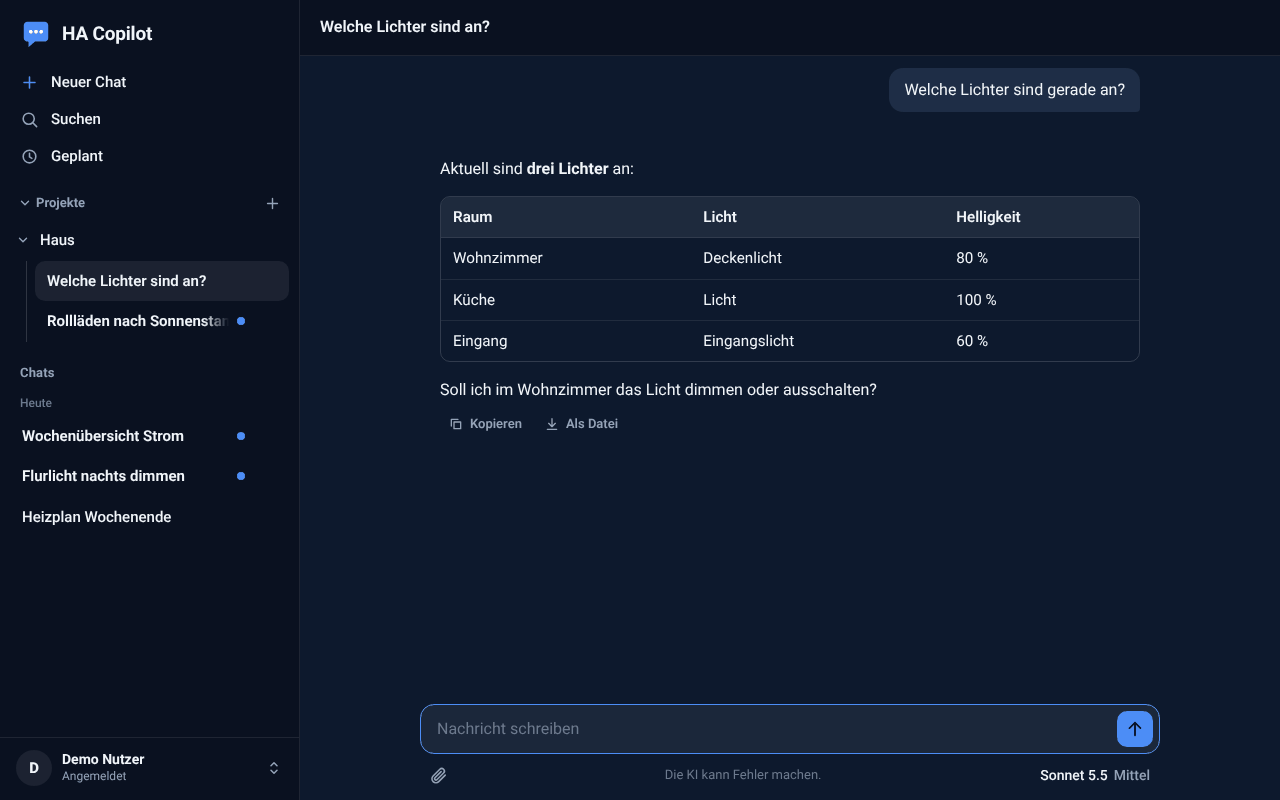
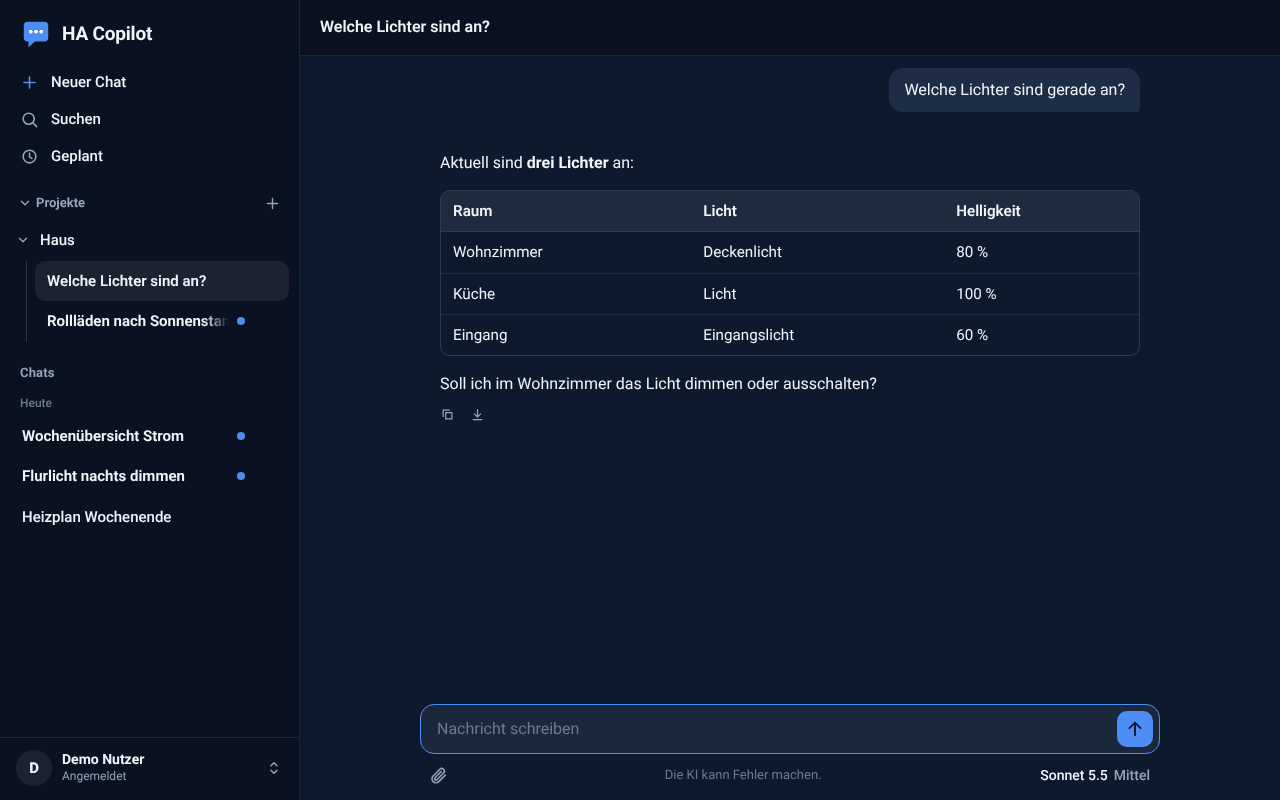
0.27.5: Antworten mit dezenten Symbolen (Kopieren, Als Datei), Zeitpunkt nur beim Darüberfahren
Claude-Session: https://claude.ai/code/session_012H4RFtPYg4WGjcVxpmDwqL

diff --git a/ki_chat/app/static/app.js b/ki_chat/app/static/app.js
@@ -1357,31 +1357,6 @@ async function togglePreview(pre, button, html) {
 
 window.kiFile = { save: saveFile, preview: togglePreview };
 
-function downloadButton(getText) {
-  const button = node("button", "tool-btn");
-  button.type = "button";
-  button.append(icon("download"), document.createTextNode(tr("Als Datei")));
-  button.addEventListener("click", () => { saveFile(tr("antwort.md"), getText(), "text/markdown").catch(() => toast(tr("Speichern hat nicht geklappt."))); });
-  return button;
-}
-
-function copyButton(getText) {
-  const button = node("button", "tool-btn");
-  button.type = "button";
-  const label = () => button.replaceChildren(icon("copy"), document.createTextNode(tr("Kopieren")));
-  label();
-  button.addEventListener("click", async () => {
-    try {
-      await navigator.clipboard.writeText(getText());
-      button.replaceChildren(icon("check"), document.createTextNode(tr("Kopiert")));
-    } catch {
-      button.replaceChildren(document.createTextNode(tr("Nicht möglich")));
-    }
-    setTimeout(label, 1600);
-  });
-  return button;
-}
-
 function fileChip(file, removable) {
   const chip = node("div", "file-chip");
   const thumb = node("span", "file-thumb");
@@ -1652,6 +1627,35 @@ async function stampMessages(chatId) {
   } catch { /* der Stift erscheint nach dem nächsten Laden */ }
 }
 
+// Unter einer Antwort: Kopieren und „Als Datei“ als dezente Symbole (nur bei der letzten Antwort dauerhaft, sonst beim
+// Darüberfahren) und, nur beim Darüberfahren, wann die Antwort fertig wurde.
+function answerMeta(text, el) {
+  const bar = node("div", "msg-meta answer-meta");
+  const copy = actionButton(tr("Antwort kopieren"), "copy", "msg-act", async () => {
+    try {
+      await navigator.clipboard.writeText(text);
+      copy.replaceChildren(icon("check"));
+      setTimeout(() => copy.replaceChildren(icon("copy")), 1600);
+    } catch { toast(tr("Kopieren nicht möglich.")); }
+  });
+  const save = actionButton(tr("Als Datei speichern"), "download", "msg-act", () => {
+    saveFile(tr("antwort.md"), text, "text/markdown").catch(() => toast(tr("Speichern hat nicht geklappt.")));
+  });
+  const time = node("span", "msg-time");
+  const refresh = () => { time.textContent = sentAgo(el.dataset.at); time.title = exactTime(el.dataset.at); };
+  refresh();
+  el.addEventListener("pointerenter", refresh);
+  el.addEventListener("focusin", refresh);
+  bar.append(copy, save, time);
+  return bar;
+}
+
+// Nur die letzte Antwort zeigt ihre Symbole dauerhaft.
+function markLastAnswer() {
+  const all = $("thread").querySelectorAll(".msg.assistant:not(.pending)");
+  all.forEach((el, i) => el.classList.toggle("last-answer", i === all.length - 1));
+}
+
 function messageEl(role, text, files = [], actions = [], meta = {}) {
   if (role === "user") return userMessage(text, files, meta);
   const el = node("div", `msg ${role}`);
@@ -1659,9 +1663,14 @@ function messageEl(role, text, files = [], actions = [], meta = {}) {
     if (actions.length) el.append(actionsEl(actions));
     el.append(window.renderMarkdown(text));
     if (actions.some((a) => a.file)) el.append(fileCardsEl(actions));
-    const tools = node("div", "msg-tools");
-    tools.append(copyButton(() => text), downloadButton(() => text));
-    el.append(tools);
+    const at = meta.at || new Date().toISOString();
+    el.dataset.at = at;
+    el.append(answerMeta(text, el));
+    // Touchscreen: Antippen der Antwort blendet die Leiste mit dem Zeitpunkt ein oder aus.
+    el.addEventListener("click", (event) => {
+      if (!window.matchMedia("(hover: none)").matches || window.getSelection()?.toString() || event.target.closest("a, button, pre, table, summary")) return;
+      el.classList.toggle("show-meta");
+    });
   } else {
     el.textContent = text;
   }
@@ -1693,6 +1702,7 @@ function renderMessages(messages) {
     if (!m.summarized) seenLive = true;
     thread.append(messageEl(m.role, m.content, m.attachments || [], m.tools || [], { id: m.id, at: m.created_at }));
   }
+  markLastAnswer();
 }
 
 async function selectChat(id) {
@@ -2264,6 +2274,7 @@ async function settleRun(run, bubble, out, view = {}) {
   }
   if (out.answer) bubble.replaceWith(messageEl("assistant", out.answer, [], out.actions));
   else bubble.remove();
+  markLastAnswer();
   if (out.failure) {
     if (!out.answer) {
       // Nichts gespeichert: Frage samt Dateien zurück ins Eingabefeld.

diff --git a/ki_chat/app/static/style.css b/ki_chat/app/static/style.css
@@ -169,7 +169,7 @@
   color: var(--bubble-ink);
   white-space: pre-wrap;
 }
-.msg.assistant { margin: 0 0 26px; line-height: 1.6; }
+.msg.assistant { margin: 0 0 14px; line-height: 1.6; }
 /* Warteanzeige: kleines Zeichen mit Bewegung, dazu ein Wort oder die laufende Aktion; beim Schreiben bleibt nur das Zeichen */
 .busy { display: flex; align-items: center; flex-wrap: wrap; gap: 4px 10px; min-height: 26px; color: var(--text-2); font-size: 14.5px; }
 .spark { position: relative; flex: none; width: 18px; height: 18px; }
@@ -216,10 +216,11 @@
 .out-get { flex: none; color: var(--text-2); display: grid; place-items: center; }
 .out-get .icon { width: 20px; height: 20px; }
 .out-card:hover:not(:disabled) .out-get { color: var(--accent); }
-.msg-tools { margin-top: 6px; display: flex; gap: 4px; }
-.tool-btn { height: 32px; padding: 0 10px 0 8px; border-radius: var(--r-1); display: inline-flex; align-items: center; gap: 6px; font-size: 13px; font-weight: 600; color: var(--text-2); }
-.tool-btn .icon { width: 16px; height: 16px; }
-.tool-btn:hover { background: var(--chip); color: var(--text); }
+/* Unter einer Antwort: Symbole nur bei der letzten Antwort dauerhaft, sonst beim Darüberfahren; der Zeitpunkt nur beim Darüberfahren */
+.msg-meta.answer-meta { justify-content: flex-start; margin: 4px 0 0 -7px; }
+.msg.assistant:hover .answer-meta, .msg.assistant:focus-within .answer-meta, .msg.assistant.show-meta .answer-meta, .msg.assistant.last-answer .answer-meta { opacity: 1; }
+.answer-meta .msg-time { margin: 0 0 0 6px; opacity: 0; transition: opacity .12s; }
+.msg.assistant:hover .answer-meta .msg-time, .msg.assistant:focus-within .answer-meta .msg-time, .msg.assistant.show-meta .answer-meta .msg-time { opacity: 1; }
 
 /* Markdown in Antworten */
 .md > :first-child { margin-top: 0; }
@@ -324,10 +325,10 @@
 .msg-group { display: flex; flex-direction: column; align-items: flex-end; margin: 0 0 6px; }
 .msg-group .msg.user { margin: 0; }
 /* Zeitpunkt, Bearbeiten und Kopieren unter der eigenen Nachricht: nur beim Darüberfahren (Touchscreen: Antippen) */
-.msg-meta { display: flex; align-items: center; gap: 2px; height: 28px; margin: 2px 0 8px; opacity: 0; transition: opacity .12s; }
+.msg-meta { display: flex; align-items: center; gap: 2px; height: 28px; margin: 2px 0 2px; opacity: 0; transition: opacity .12s; }
 .msg-group:hover .msg-meta, .msg-group:focus-within .msg-meta, .msg-group.show-meta .msg-meta { opacity: 1; }
 /* Touchscreen: Leiste braucht keinen reservierten Platz, sie klappt beim Antippen auf */
-@media (hover: none) { .msg-meta { height: 0; margin: 0; overflow: hidden; } .msg-group.show-meta .msg-meta { height: 28px; margin: 2px 0 8px; overflow: visible; } .msg-group { margin-bottom: 22px; } }
+@media (hover: none) { .msg-group .msg-meta { height: 0; margin: 0; overflow: hidden; } .msg-group.show-meta .msg-meta { height: 28px; margin: 2px 0 2px; overflow: visible; } .msg-group { margin-bottom: 22px; } }
 .msg-time { margin-right: 4px; font-size: 12.5px; color: var(--text-2); white-space: nowrap; cursor: default; }
 .msg-act { width: 28px; height: 28px; border-radius: var(--r-1); display: grid; place-items: center; color: var(--text-2); }
 .msg-act .icon { width: 15px; height: 15px; }

diff --git a/tools/screenshots/capture_app.py b/tools/screenshots/capture_app.py
@@ -4,7 +4,7 @@ OUT = sys.argv[1]
 DEMO_ID = "0123456789abcdef0123456789abcdef"; H = {"X-Remote-User-Id": DEMO_ID}
 def open_chat(pg, project, chat):
     pg.locator(".project-row", has_text=project).first.click(); pg.wait_for_timeout(300)
-    pg.locator(".row.chat-item", has_text=chat).first.click(); pg.mouse.move(900, 400); pg.wait_for_timeout(1200)
+    pg.locator(".row.chat-item", has_text=chat).first.click(); pg.mouse.move(900, 620); pg.wait_for_timeout(1200)
 with sync_playwright() as p:
     b = p.chromium.launch()
     for scheme, name in (("light", "chat-hell"), ("dark", "chat-dunkel")):
@@ -20,6 +20,14 @@ with sync_playwright() as p:
             pg.screenshot(path=f"{OUT}/nachricht-zeit.png", clip=clip)
             pg.locator(".msg-edit-btn").first.click(); pg.wait_for_timeout(400)
             pg.screenshot(path=f"{OUT}/nachricht-bearbeiten.png", clip=clip)
+            pg.locator(".msg-edit .pill.ghost").click(); pg.wait_for_timeout(300)
+            # Antwort: Kopieren und „Als Datei“ (bei der letzten Antwort dauerhaft), der Zeitpunkt nur beim Darüberfahren
+            pg.mouse.move(5, 5); pg.wait_for_timeout(200)
+            pg.evaluate("document.querySelector('.msg.assistant').dataset.at = new Date(Date.now() - 31 * 60000).toISOString()")
+            answer = pg.locator(".msg.assistant").first
+            answer.hover(); pg.wait_for_timeout(500)
+            box = answer.bounding_box()
+            pg.screenshot(path=f"{OUT}/antwort-zeit.png", clip={"x": box["x"] - 20, "y": box["y"] + box["height"] - 120, "width": 700, "height": 150})
         c.close()
     c = b.new_context(viewport={"width": 390, "height": 800}, device_scale_factor=2, is_mobile=True, has_touch=True, locale="de-DE", extra_http_headers=H)
     pg = c.new_page(); pg.goto("http://127.0.0.1:8099/"); pg.wait_for_timeout(900)

diff --git a/tools/screenshots/capture_theme.py b/tools/screenshots/capture_theme.py
@@ -5,10 +5,15 @@ Setzt das Theme über den Dienst frontend.set_theme für die Dauer der Aufnahme 
 import json, os, sys, urllib.request
 exec(open(os.path.join(os.path.dirname(__file__), "capture_ha.py")).read().split("with sync_playwright() as p:")[0])
 
+def access_token():
+    """Der gespeicherte Zugriffstoken läuft nach 30 Minuten ab: mit dem Aktualisierungstoken einen frischen holen."""
+    data = urllib.parse.urlencode({"grant_type": "refresh_token", "refresh_token": tok["refresh_token"], "client_id": HA + "/"}).encode()
+    return json.load(urllib.request.urlopen(urllib.request.Request(HA + "/auth/token", data=data)))["access_token"]
+
 def theme(name):
     body = {"name": name} if name else {"name": "default"}
     r = urllib.request.Request(HA + "/api/services/frontend/set_theme", method="POST", data=json.dumps(body).encode(),
-                               headers={"Authorization": "Bearer " + tok["access_token"], "Content-Type": "application/json"})
+                               headers={"Authorization": "Bearer " + access_token(), "Content-Type": "application/json"})
     urllib.request.urlopen(r).read()
 
 theme("DORALAB")
@@ -21,7 +26,7 @@ try:
             pg.goto(HA + "/ha-copilot-panel"); pg.wait_for_timeout(5000)
             fr = pg.frame_locator("iframe")
             fr.locator(".project-row", has_text="Haus").first.click(); pg.wait_for_timeout(400)
-            fr.locator(".row.chat-item", has_text="Lichter").first.click(); pg.mouse.move(1000, 400); pg.wait_for_timeout(1500)
+            fr.locator(".row.chat-item", has_text="Lichter").first.click(); pg.mouse.move(1000, 600); pg.wait_for_timeout(1500)
             pg.screenshot(path=f"{OUT}/ha-copilot-doralab{suffix}.png")
             c.close()
         b.close()

diff --git a/tools/screenshots/capture_ha.py b/tools/screenshots/capture_ha.py
@@ -40,7 +40,7 @@ with sync_playwright() as p:
         pg.goto(HA + "/ha-copilot-panel"); pg.wait_for_timeout(5000)
         fr = pg.frame_locator("iframe")
         try:
-            fr.locator(".project-row", has_text="Haus").first.click(); pg.wait_for_timeout(400); fr.locator(".row.chat-item", has_text="Lichter").first.click(); pg.mouse.move(1000, 400); pg.wait_for_timeout(1500)
+            fr.locator(".project-row", has_text="Haus").first.click(); pg.wait_for_timeout(400); fr.locator(".row.chat-item", has_text="Lichter").first.click(); pg.mouse.move(1000, 600); pg.wait_for_timeout(1500)
         except Exception as e:
             print("click chat failed", e)
         pg.screenshot(path=f"{OUT}/ha-copilot-im-panel{suffix}.png")

diff --git a/ki_chat/DOCS.md b/ki_chat/DOCS.md
@@ -167,7 +167,7 @@ Verfügbare Variablen: `--bg`, `--panel`, `--sidebar`, `--sheet`, `--text`, `--t
 
 - **Darstellung:** Hell, Dunkel oder Auto (folgt dem Gerät). Die Auswahl steht unten in der Seitenleiste und wird pro Browser gemerkt; in Home Assistant eingebettet gibt HA Hell/Dunkel vor und der Schalter entfällt. Die Farben kommen aus dem Theme von Home Assistant, siehe „Personalisierung“.
 - **Seitenleiste:** Von oben nach unten: „Neuer Chat“, **Suchen** (ab 0.22.0, siehe „Suche, Export und eigene Daten“), **Geplant** (ab 0.21.0, siehe „Geplante Aufgaben“), **Angepinnt** (angepinnte Chats), **Projekte** (auf- und zuklappbar, Plus-Symbol legt ein Projekt an; das Plus in der Projektzeile startet einen neuen Chat darin) und **Chats**. Bei den Chats stehen nur die der letzten zwei Tage (Heute, Gestern); „Alle anzeigen“ blendet die älteren ein. Über das Symbol mit den drei Punkten bei jeder Zeile (am Computer beim Darüberfahren) öffnet sich das Aktionsfenster: anpinnen, umbenennen, in ein Projekt verschieben, als Markdown exportieren, löschen. Am Laptop und Tablet öffnet das ein kleines Menü direkt am Symbol (mit Trennlinien und Tastenkürzeln: U, P, R, D; „Projekt wechseln“ klappt ein Untermenü mit Suche auf; Pfeiltasten und Esc funktionieren). Abfragen wie Projekt anlegen, Umbenennen oder Löschen bestätigen erscheinen dort als Dialog in der Bildschirmmitte mit Schließen-Kreuz; auf dem Handy hochkant bleibt alles ein Fenster von unten.
-- **Eigene Nachrichten (ab 0.27.5):** Unter jeder eigenen Nachricht steht beim Darüberfahren (am Touchscreen nach dem Antippen) dezent, wann sie gesendet wurde: bis zu einer Stunde „vor 33 Minuten“, danach auf Stunden gerundet („vor 1 Stunde“, „vor 2 Stunden“, bis sechs Stunden), dann „Heute Nacht/Morgen/Mittag/Nachmittag/Abend“, „Gestern“, „Vorgestern“, „vor 3 Tagen“ (bis sechs Tage) und ab einer Woche das Datum. Der genaue Zeitpunkt steht im Hinweis des Zeitstempels. Daneben ein Stift (**Bearbeiten**) und ein Symbol zum **Kopieren** des Textes. Zum Bearbeiten siehe „So arbeitet die KI“.
+- **Eigene Nachrichten (ab 0.27.5):** Unter jeder eigenen Nachricht steht beim Darüberfahren (am Touchscreen nach dem Antippen) dezent, wann sie gesendet wurde: bis zu einer Stunde „vor 33 Minuten“, danach auf Stunden gerundet („vor 1 Stunde“, „vor 2 Stunden“, bis sechs Stunden), dann „Heute Nacht/Morgen/Mittag/Nachmittag/Abend“, „Gestern“, „Vorgestern“, „vor 3 Tagen“ (bis sechs Tage) und ab einer Woche das Datum. Der genaue Zeitpunkt steht im Hinweis des Zeitstempels. Daneben ein Stift (**Bearbeiten**) und ein Symbol zum **Kopieren** des Textes. Zum Bearbeiten siehe „So arbeitet die KI“. **Unter den Antworten der KI** stehen „Kopieren“ und „Als Datei“ (speichert den ganzen Text als `antwort.md`) als dezente Symbole: bei der letzten Antwort dauerhaft, bei älteren erst beim Darüberfahren; ebenfalls nur dann steht dort, wann die Antwort fertig wurde (gleiche Zeitangabe wie oben).
 - **Warteanzeige (ab 0.17.0):** Solange die KI arbeitet, steht unter der Frage ein kleines bewegtes Zeichen mit einem Hinweis („Denkt nach“, „Tüftelt“, „Wägt ab“ …) oder der gerade laufenden Aktion („Entitäten suchen: Licht“); wartet sie auf deine Freigabe, steht das dort. Nach 20 Sekunden erscheint die Wartezeit, nach einer Minute ein Hinweis, dass die Antwort auch bei verlassenem Chat fertig wird. Sobald Text ankommt, bleibt nur das kleine Zeichen unter dem Text. Mit „Bewegung reduzieren“ im Betriebssystem steht es still.
 - **Lesestatus:** Eine neue Antwort macht den Chat ungelesen: Der Name steht fett mit einem Punkt in der Akzentfarbe, ein eingeklapptes Projekt zeigt den Punkt ebenfalls, und der Tab-Titel beginnt mit „●“. Sobald der Chat angezeigt wird, gilt er als gelesen. Das passiert auch, wenn du die Antwort bei geöffnetem Fenster abwartest. Kommt die Antwort, während das Fenster im Hintergrund liegt oder du auf einem anderen Gerät bist, bleibt der Punkt, bis du den Chat öffnest. Im Menü kannst du Chats von Hand als ungelesen oder gelesen markieren (der gerade offene Chat bleibt dann ungelesen, bis du ihn erneut öffnest). Der Status gehört zum Benutzer und gilt auf allen Geräten; die Liste aktualisiert sich beim Zurückkehren ins Fenster, alle 45 Sekunden und alle 3 Sekunden, solange irgendwo eine Antwort entsteht. Projekte lassen sich ebenfalls anpinnen (stehen dann oben) und umbenennen. Wird ein Projekt gelöscht, bleiben seine Chats erhalten und stehen danach wieder bei den Chats. Weitere Einträge wie Artefakte kommen als zusätzliche `nav-item`-Zeilen in `index.html` dazu.
 - **Einklappen und Handy:** Im Web am Computer lässt sich die Seitenleiste über das Symbol oben links ein- und ausblenden (wird pro Browser gemerkt). In Home Assistant gibt es das nicht, dort wäre es eine zweite Seitenleiste neben der von HA. Auf dem Handy öffnet sich die Seitenleiste im Web wie gewohnt von links (Menüsymbol), in Home Assistant als Fenster von unten (Sprechblasen-Symbol).
@@ -177,7 +177,7 @@ Verfügbare Variablen: `--bg`, `--panel`, `--sidebar`, `--sheet`, `--text`, `--t
 - **Startseite:** Ein neuer Chat zeigt die Begrüßung und vier Startkarten. Ein Tipp darauf füllt die Eingabe mit dem Anfang einer Frage, die du fertig schreibst. Die Karten stehen als `STARTERS` in `app.js`.
 - **Anhänge:** Über die Büroklammer, per Einfügen (Strg/Cmd+V, z. B. ein Screenshot) oder per Ziehen auf die Seite lassen sich bis zu 5 Dateien pro Nachricht anhängen: Bilder (PNG, JPEG, GIF, WebP; Fotos werden im Browser auf höchstens 2000 Pixel verkleinert), PDF und Textdateien (Code, Logs, CSV, JSON, YAML, Markdown …). Zum Senden brauchst du eine Frage zu den Dateien. Word (.docx), Excel (.xlsx) und PowerPoint (.pptx) werden im Add-on in Text umgewandelt (Überschriften, Listen, Tabellen; bei Excel alle sichtbaren Blätter mit Zellwerten und Datumsangaben, Formeln als zuletzt berechneter Wert; bei PowerPoint Folientexte und Notizen). Alte Formate (.doc, .xls, .ppt), passwortgeschützte Dateien und ZIP-Archive werden mit einer Meldung abgelehnt. Was mit den Dateien passiert, steht unter „Anhänge und Speicherplatz“.
 - **Projektanweisungen:** Im Menü eines Projekts (⋯) unter „Anweisungen festlegen“ lässt sich ein Text (bis 4000 Zeichen) hinterlegen, der in jedem Chat des Projekts als Anweisung an Claude mitgeht, zum Beispiel Rolle, Stil oder feste Hintergründe. Ein Punkt hinter dem Projektnamen zeigt, dass Anweisungen aktiv sind; auf der Startseite eines neuen Chats im Projekt steht ein Hinweis. Die Anweisungen liegen als Text in der Datenbank (Chats ohne Projekt bekommen keine).
-- **Dateien und Vorschau aus Antworten:** Claude liefert Text. Jeder Codeblock hat „Herunterladen“ und „Kopieren“; mit `datei=name.ext` in der Eröffnungszeile (z. B. ```` ```yaml datei=automations.yaml ````) bekommt die Datei ihren Namen, sonst `datei.<Endung>` nach der Sprache. Unter jeder Antwort speichert „Als Datei“ den ganzen Text als `antwort.md`. Auf dem Handy öffnet sich dafür das Teilen-Fenster („In Dateien sichern“), am Computer der normale Download. Vollständige HTML-Seiten (Codeblock `html`) bekommen eine Schaltfläche „Vorschau“: Die Seite läuft abgeschottet unter dem Codeblock (Vollbild möglich). Siehe „Vorschau-Sicherheit“.
+- **Dateien und Vorschau aus Antworten:** Claude liefert Text. Jeder Codeblock hat „Herunterladen“ und „Kopieren“; mit `datei=name.ext` in der Eröffnungszeile (z. B. ```` ```yaml datei=automations.yaml ````) bekommt die Datei ihren Namen, sonst `datei.<Endung>` nach der Sprache. Unter jeder Antwort speichert das Symbol „Als Datei speichern“ den ganzen Text als `antwort.md`. Auf dem Handy öffnet sich dafür das Teilen-Fenster („In Dateien sichern“), am Computer der normale Download. Vollständige HTML-Seiten (Codeblock `html`) bekommen eine Schaltfläche „Vorschau“: Die Seite läuft abgeschottet unter dem Codeblock (Vollbild möglich). Siehe „Vorschau-Sicherheit“.
 - **Logo:** Das Logo steht auf der Anmeldeseite (auf einem dunklen „Türschild“), als Zeichen in der Seitenleiste (auch in Home Assistant auf Laptop und Tablet; auf dem Handy in Home Assistant im Chats-Fenster und auf der Startseite) und als Symbol für Browser-Tab und Startbildschirm. Mitgeliefert ist ein neutrales Zeichen; eigene Dateien siehe „Logo und Dateien“.
 - **Schrift:** Roboto (variable Schrift, Lizenz OFL, liegt im Add-on unter `app/static/fonts/`). Es werden keine Schriften von fremden Servern geladen.
 - **Handy:** Die Chats öffnen als Fenster von unten (Knopf „Chats“ in der Leiste), nicht als zweites Seitenmenü neben dem von Home Assistant. In HA eingebettet fehlen Marke und Anmeldename, weil HA sie selbst zeigt.

diff --git a/ki_chat/CHANGELOG.md b/ki_chat/CHANGELOG.md
@@ -6,6 +6,7 @@
 - **Handy im Web: Kopfzeile ohne Balken.** Nur noch runde Knöpfe für die Chat-Liste (links, Symbol wie in Claude) und „Neuer Chat“ (rechts). In der Home-Assistant-App bleibt das Chats-Symbol in der Eingabe.
 - **Chatliste:** Ein kleiner Kreisel hinter dem Namen zeigt, dass in diesem Chat gerade geantwortet wird (am Computer und am Handy; ein Punkt für „Wartet auf Bestätigung“ bzw. „Ungelesen“ wie bisher). Die drei Punkte erscheinen am Computer nur noch beim Darüberfahren, am Touchscreen bleiben sie sichtbar. Lange Namen enden nicht mehr mit „…“, sondern blenden in der Schriftfarbe aus. Bleibt die Maus etwa eine Sekunde auf einem Chat, zeigt ein Hinweis den vollen Namen und die letzte Aktivität.
 - **Nachrichten bearbeiten.** Fährst du mit der Maus über eine eigene Nachricht, erscheint darunter dezent, **wann sie gesendet wurde** („vor 33 Minuten“, „vor 2 Stunden“, danach „Heute Morgen“, „Gestern“, „Vorgestern“, „vor 3 Tagen“, ab einer Woche das Datum; der genaue Zeitpunkt steht im Hinweis beim Darüberfahren), dazu ein Stift zum **Bearbeiten** und ein Symbol zum **Kopieren**. Am Touchscreen blendet Antippen der Nachricht die Leiste ein. „Bearbeiten“ macht die Nachricht zum Eingabefeld; mit „Senden“ wird diese Frage samt allem Späteren in diesem Chat durch die neue Frage und eine neue Antwort ersetzt. Angehängte Dateien der alten Frage werden nicht übernommen (neu anhängen). Scheitert die neue Antwort ganz, kommt der alte Verlauf unverändert zurück. Eine Zusammenfassung des älteren Verlaufs, die in den ersetzten Teil reicht, wird verworfen und bei Bedarf neu erstellt.
+- **Antworten der KI:** „Kopieren“ und „Als Datei“ stehen jetzt als dezente Symbole unter der Antwort, wie bei den eigenen Nachrichten. Bei der **letzten** Antwort bleiben sie dauerhaft sichtbar, bei älteren erscheinen sie erst beim Darüberfahren. Dort steht dann auch, **wann die Antwort fertig wurde** (derselbe Zeitstempel wie bei eigenen Nachrichten, immer nur beim Darüberfahren). Am Touchscreen blendet Antippen der Antwort die Leiste ein.
 - Keine neuen Optionen, keine Änderung an bestehender Konfiguration. Die Datenbank bleibt unverändert (kein neues Schema).
 
 ## 0.27.4

diff --git a/docs/funktionen.md b/docs/funktionen.md
@@ -11,6 +11,9 @@ Ein Überblick über alles, was HA Copilot kann, mit den Einstellungen, die dazu
 - Pro Nachricht lässt sich die **Denktiefe** wählen (Niedrig, Mittel, Hoch), dazu das **Modell** (Einstellung `models`) und die **Websuche**. Alles steht in einem Menü (Knopf z. B. „Sonnet 5.5 Mittel“; am Computer rechts unter dem Eingabefeld, am Handy im Eingabefeld neben der Büroklammer), wie in Claude: gewähltes Modell, „Aufwand“ und „Weitere Modelle“ als Untermenüs.
 - **Anhänge** (bis zu 5 je Nachricht, zusammen 60 MB): Bilder, PDF, Word, Excel, PowerPoint, Text und Code. Mit der Option „Dateien bearbeiten“ (Standard) bleibt eine Kopie für diesen Chat erhalten, damit die KI die Datei später lesen und **bearbeiten** kann (z. B. PDF-Felder sperren, Word-Text ändern, Excel-Zellen setzen, Code anpassen); die bearbeitete Fassung gibt es als Download, das Original bleibt unverändert. Ohne die Option gibt es die Anhänge nur im Arbeitsspeicher. Einfügen mit Strg/Cmd+V oder Ziehen auf die Seite geht auch.
 - **Nachrichten bearbeiten:** Unter jeder eigenen Nachricht erscheint beim Darüberfahren, wann sie gesendet wurde („vor 33 Minuten“, „vor 2 Stunden“, „Heute Morgen“, „Gestern“, „Vorgestern“, „vor 3 Tagen“, ab einer Woche das Datum), dazu **Bearbeiten** (Stift) und **Kopieren**. Beim Bearbeiten ersetzt die neue Frage die alte und alles danach in diesem Chat; scheitert die neue Antwort, bleibt der alte Verlauf erhalten. Dateien der alten Frage müssen neu angehängt werden.
+- **Unter den Antworten der KI** stehen **Kopieren** und **Als Datei** als dezente Symbole, bei der letzten Antwort dauerhaft, bei älteren beim Darüberfahren. Dort erscheint dann auch, wann die Antwort fertig wurde.
+
+![Antwort mit Symbolen und Zeitpunkt](screenshots/antwort-zeit.png)
 
 | Zeitpunkt, Bearbeiten, Kopieren | Nachricht bearbeiten |
 |---|---|

diff --git a/docs/screenshots/README.md b/docs/screenshots/README.md
@@ -7,7 +7,7 @@ Alle Bilder zeigen eine Test-Instanz von Home Assistant mit Demo-Geräten und di
 | `ha-seitenleiste-dashboard.png`, `…-dunkel.png` | Seitenleiste von Home Assistant mit dem Eintrag „HA Copilot“ und einem Platzhalter-Dashboard |
 | `ha-copilot-im-panel.png`, `…-dunkel.png` | HA Copilot im Home-Assistant-Rahmen, mit dem Theme von Home Assistant |
 | `ha-copilot-doralab.png`, `…-dunkel.png` | Dasselbe mit einem eigenen Theme („DORALAB“, nur Farben) statt dem Standard-Theme von Home Assistant |
-| `nachricht-zeit.png`, `nachricht-bearbeiten.png` | Eigene Nachricht mit Zeitpunkt, Bearbeiten und Kopieren; der Editor |
+| `nachricht-zeit.png`, `nachricht-bearbeiten.png`, `antwort-zeit.png` | Eigene Nachricht mit Zeitpunkt, Bearbeiten und Kopieren; der Editor; Antwort mit Kopieren, „Als Datei“ und Zeitpunkt |
 | `einrichtungspruefung.png` | Einrichtungsprüfung im Konto-Menü |
 | `suche.png` | Suche über alle eigenen Chats |
 | `geplant.png` | Geplante Aufgaben |
